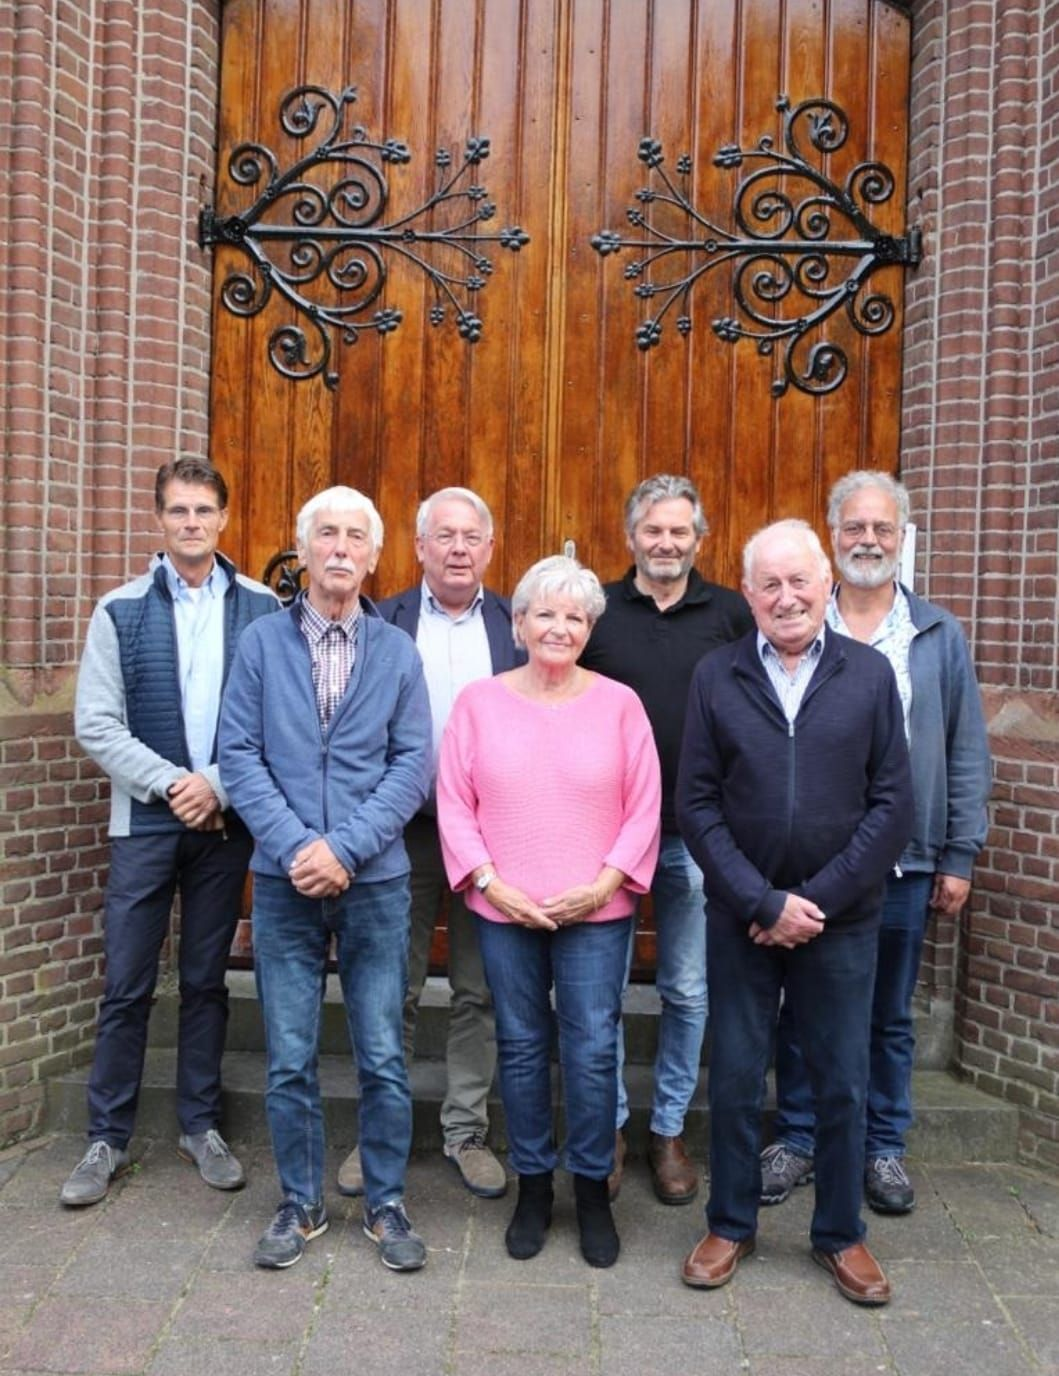
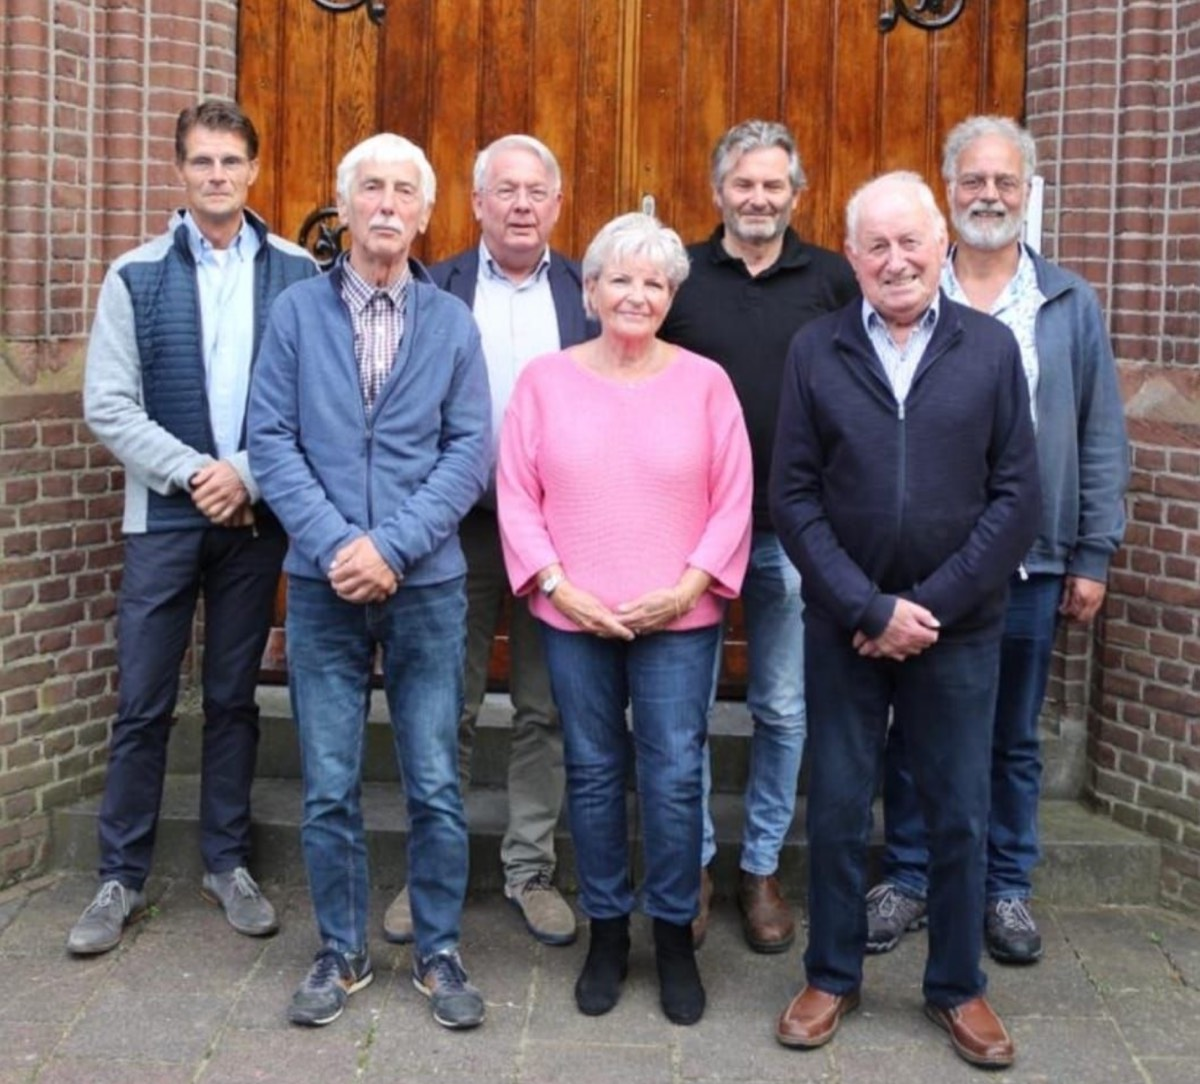
Vervang de bestuursfoto door een kleinere uitsnede (#31)
De foto van het bestuur op de ANBI-pagina is een strakkere uitsnede
(1200x1084 in plaats van 1059x1376). De afmetingen in de pagina en bij
de deelfoto zijn bijgewerkt.

diff --git a/anbistatus.html b/anbistatus.html
@@ -15,8 +15,8 @@
   <meta property="og:title" content="ANBI-gegevens | De Dierense Toren">
   <meta property="og:description" content="ANBI-gegevens van Stichting De Dierense Toren: RSIN, doelstelling, bestuur, beleidsplan, beloningsbeleid, activiteitenverslag en financiële verantwoording.">
   <meta property="og:image" content="https://dierensetoren.nl/img/web/bestuur.jpg">
-  <meta property="og:image:width" content="1059">
-  <meta property="og:image:height" content="1376">
+  <meta property="og:image:width" content="1200">
+  <meta property="og:image:height" content="1084">
   <link rel="icon" href="img/favicon.svg?v=dev" type="image/svg+xml">
   <link rel="preload" href="fonts/inter-latin.woff2?v=dev" as="font" type="font/woff2" crossorigin>
   <link rel="preload" href="fonts/fraunces-latin.woff2?v=dev" as="font" type="font/woff2" crossorigin>
@@ -94,7 +94,7 @@
             <li>R. Hendriksen<span>bestuurslid</span></li>
         </ul>
         <figure>
-          <img src="img/web/bestuur.jpg?v=dev" alt="Het bestuur van Stichting De Dierense Toren voor de deuren van de toren" loading="lazy" width="1059" height="1376">
+          <img src="img/web/bestuur.jpg?v=dev" alt="Het bestuur van Stichting De Dierense Toren voor de deuren van de toren" loading="lazy" width="1200" height="1084">
           <figcaption>Het bestuur van Stichting De Dierense Toren</figcaption>
         </figure>
 
